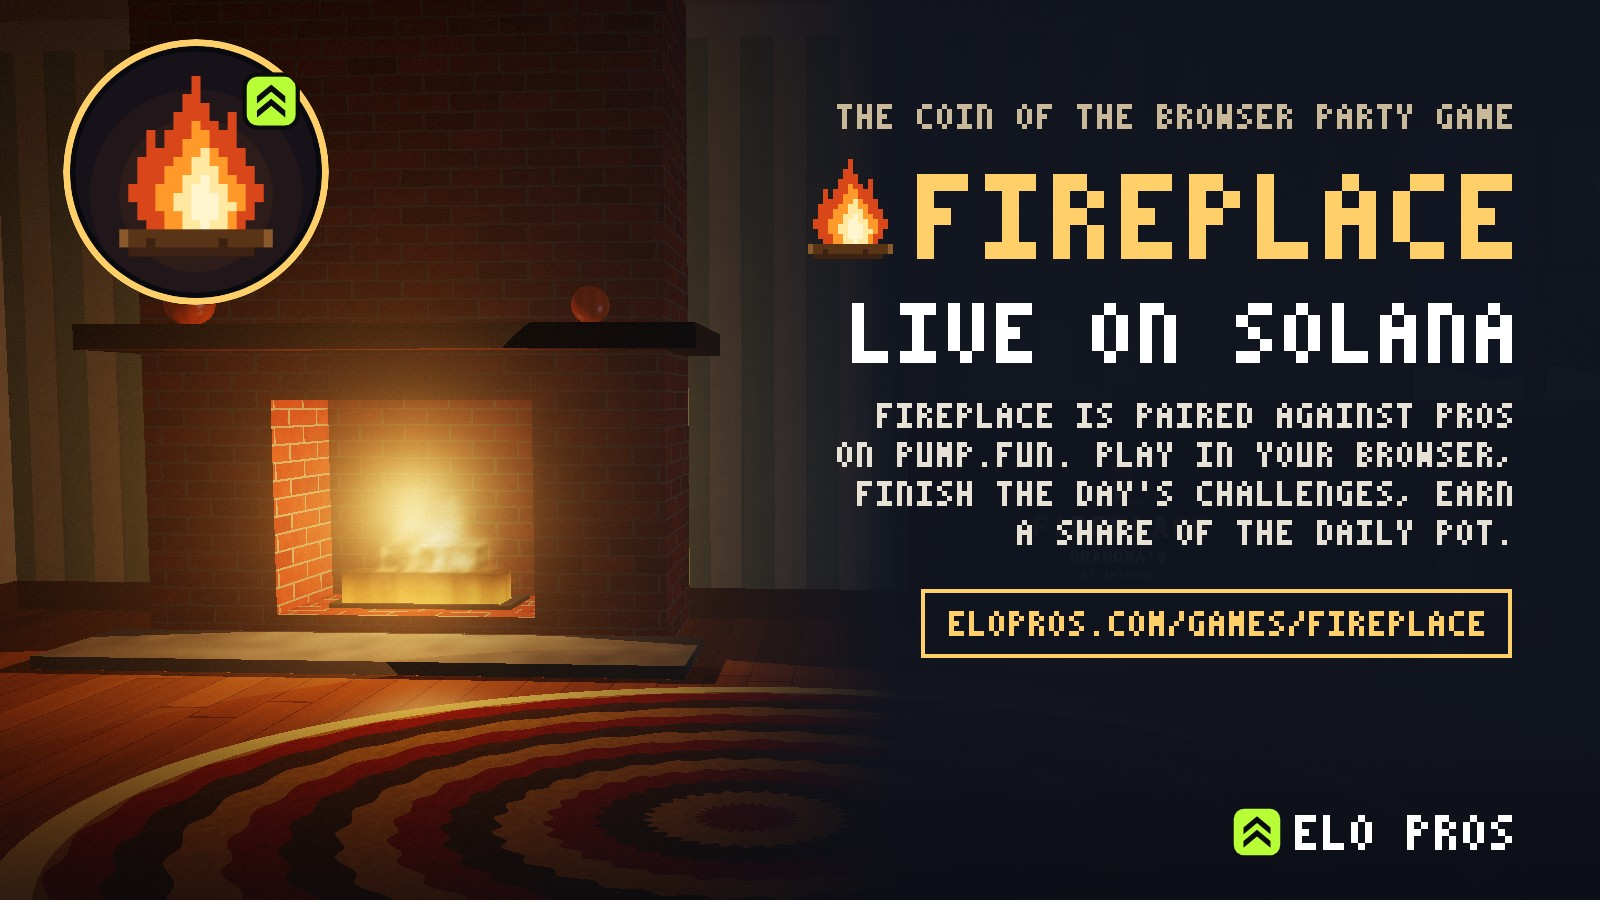
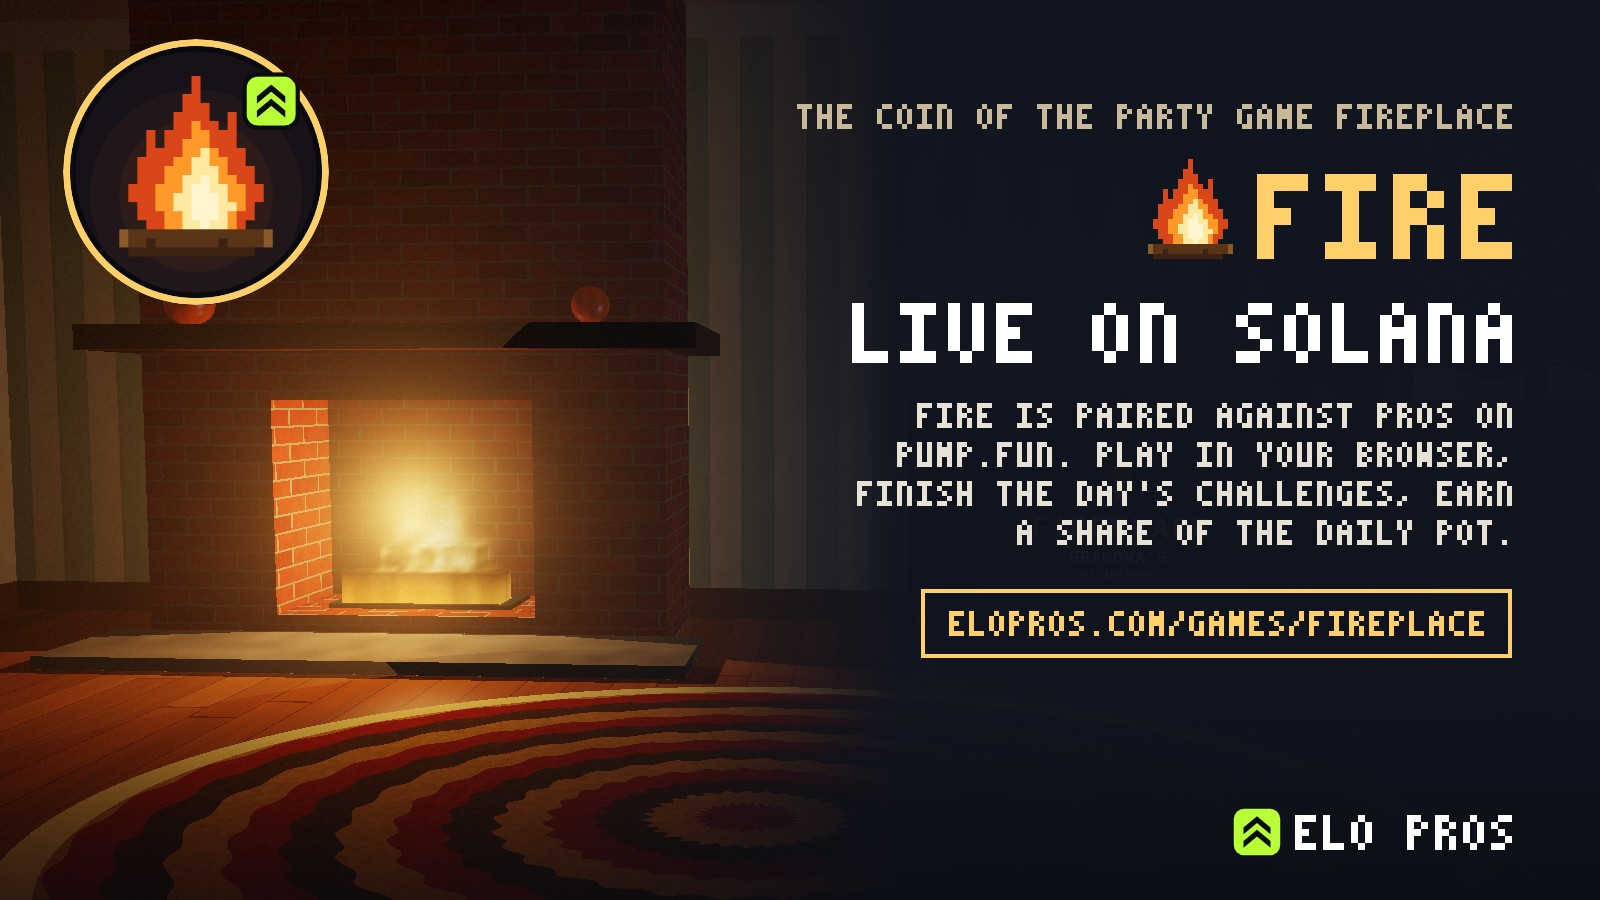
The coin is FIRE: ticker, post, 1% creator fee, a 5% opening split under 2%
Operator, 2026-11-13: name Fireplace, ticker FIRE. The launch post draws the
ticker from the sheet. pump.fun caps a coin's own creator fee at 100 bps, so
the sheet says 1%. The opening is 5%, paid in PROS by Elo Pros' game wallet 1
and split so no wallet holds over 2%.

diff --git a/docs/coin.md b/docs/coin.md
@@ -20,22 +20,22 @@ folder's shape, so it copies over it.
 | | | |
 |---|---|---|
 | ⛔ name | `Fireplace` | the game's name, as the store writes it |
-| ⛔ ticker | `FIREPLACE` | the name, the rule ONESHOT's was picked by; bare, never with a `$` |
+| ⛔ ticker | `FIRE` | short, and the picture is a fire (operator, 2026-11-13); bare, never with a `$` |
 | ⛔ pair | PROS | picked on the create form |
-| ⛔ creator fee | 2% on the sheet | the rate our titles set; ONESHOT's landed at 1%, so read what the form offers |
+| ⛔ creator fee | 1% | pump.fun's most: its Global caps a coin's own creator fee at 100 bps, and refuses 2% |
 | ⛔ mayhem mode | off | it doubles the supply |
 | ⛔ picture | `coin/art/fireplace-coin.png` | draft a, the TV's fire; b and c are beside it |
 | ⛔ banner | `coin/art/fireplace-banner.jpg` | the living room, the title on the right |
 | ⛔ description | below | |
 | ⛔ links | website `https://elopros.com/games/fireplace/`, X `https://x.com/ELOonSOL`, Telegram `https://t.me/eloonsol` | Elo Pros' own |
 | creator | `FF31ZeUkM8T4YVT1dm1XTKsf9HfXcycTAGrPu2Pu6Vkx` | the wallet that created PROS and ONESHOT: it pays the opening in PROS and takes the fee in PROS |
-| opening buy | 100,000,000 on the sheet (10%) | in the create, no bundle; what it costs in PROS is read on the day |
+| opening buy | 50,000,000 (5%) | in the create, no bundle, paid in PROS by Elo Pros' game wallet 1; then split so no wallet holds over 2%: 2% to Fireplace's prize wallet, 2% to its house wallet, 1% stays (operator, 2026-11-13) |
 
 The description:
 
 > Fireplace is a free party game on Elo Pros, in your browser: a living room
 > with a fire going and a TV that plays party minigames, an arena, a dogfight
-> and golf in turn, with a whole crowd in one room. FIREPLACE is its coin,
+> and golf in turn, with a whole crowd in one room. FIRE is its coin,
 > paired against PROS. Play signed in and finish the day's challenges for a
 > share of the daily pot. Every house wallet is listed at
 > elopros.com/tokenomics.html
@@ -209,8 +209,8 @@ needs its screenshots and the kiln's owner to define it once on chain
 
 Before the create, in order; the owner in brackets.
 
-1. [operator] **The calls.** The ticker: `FIREPLACE` here, by the rule
-   ONESHOT's was picked by; `MALLOW` is the other one worth a look, with
+1. [operator] **The calls.** The ticker: `FIRE` (operator, 2026-11-13: short,
+   and the picture is a fire); `MALLOW` is the other one worth a look, with
    draft b as its picture, but then the room's marshmallows and the coin
    share a name without sharing a rate. The picture: a, b or c. The X link:
    Elo Pros' here; ONESHOT's sheet used the developer's own. The creator
